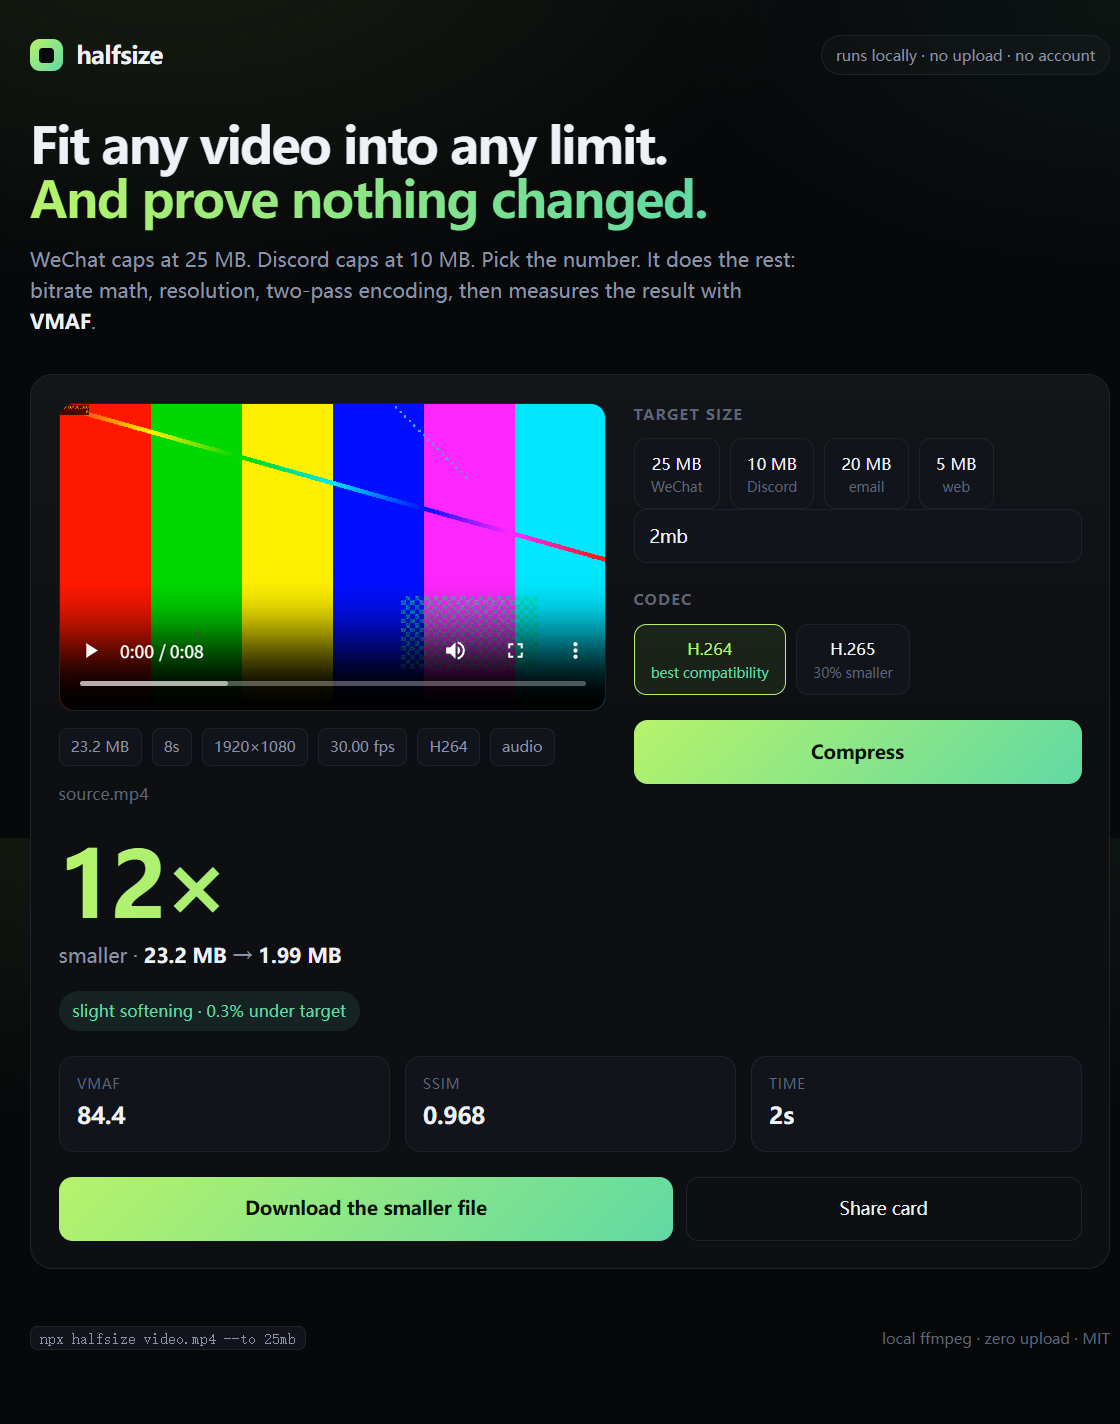
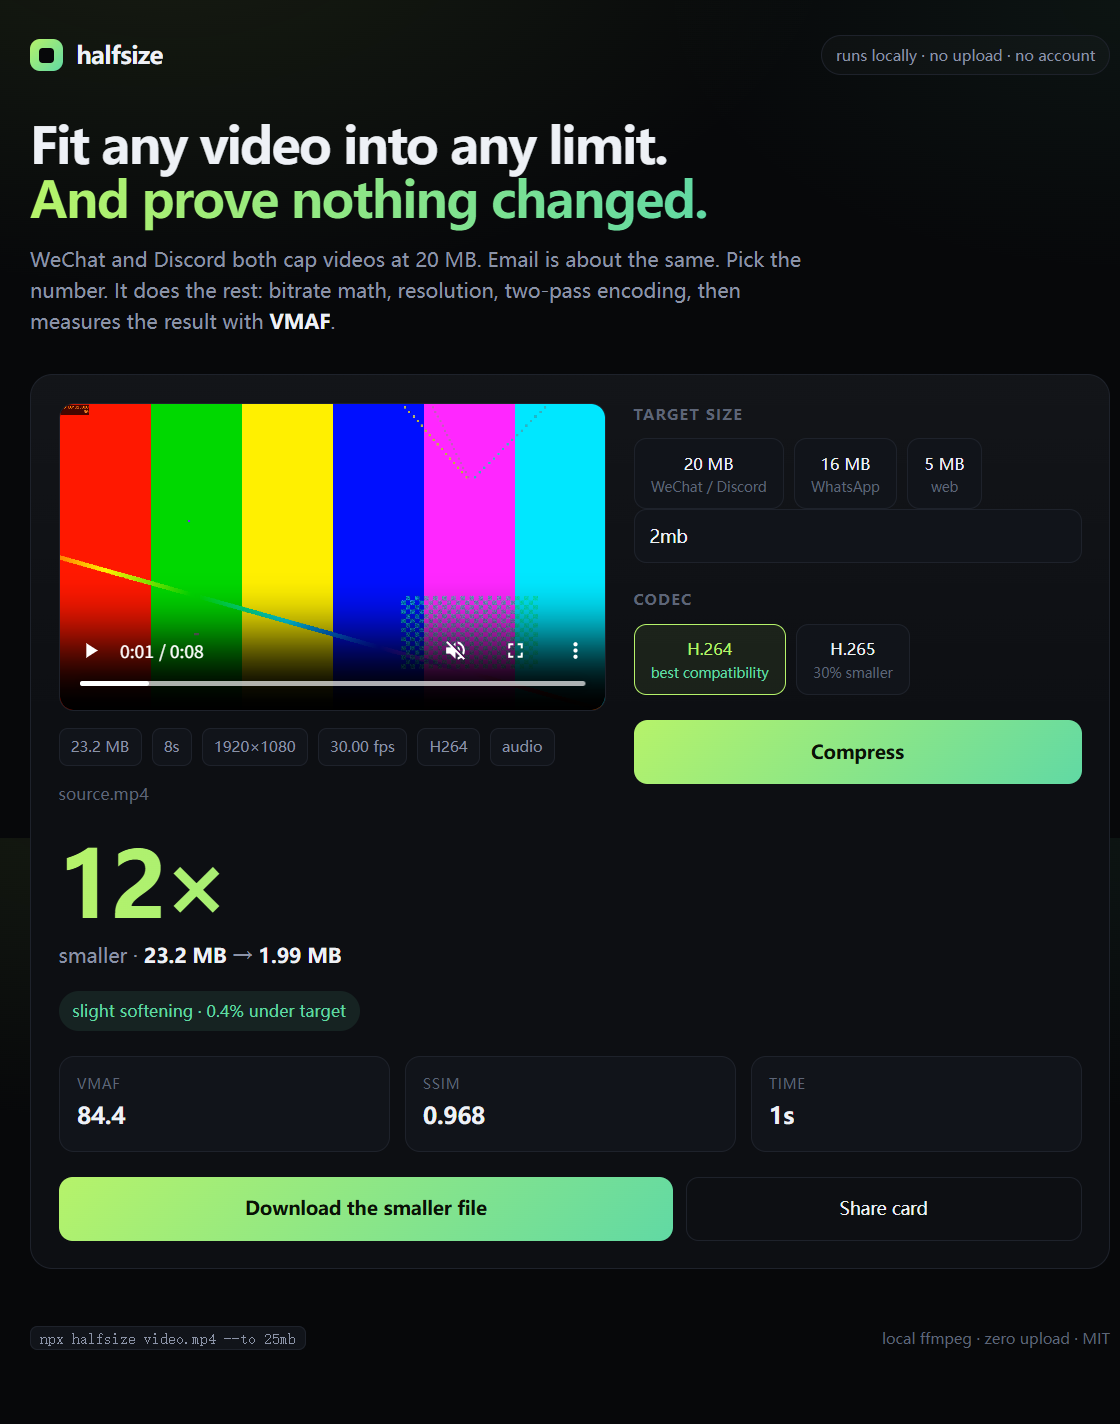
fix: match the current Discord (20 MB) and WeChat (20 MB) caps in 0.1.5

diff --git a/web/index.html b/web/index.html
@@ -150,7 +150,7 @@
   </header>
 
   <h1 data-i18n-html="title">把任何视频，塞进任何限制。<br><em>并且证明画质没变。</em></h1>
-  <p class="sub" data-i18n-html="sub">微信只让发 25 MB，Discord 只让发 10 MB。选一个数字，剩下的交给它：算码率、降分辨率、两遍编码，最后用 <b>VMAF</b> 告诉你画质掉没掉。</p>
+  <p class="sub" data-i18n-html="sub">微信和 Discord 都只让发 20 MB，邮件也差不多。选一个数字，剩下的交给它：算码率、降分辨率、两遍编码，最后用 <b>VMAF</b> 告诉你画质掉没掉。</p>
 
   <div class="card" id="card">
     <div id="drop" class="drop" role="button" tabindex="0">
@@ -172,9 +172,8 @@
         <div>
           <div class="label" data-i18n="target">目标大小</div>
           <div class="chips" id="presets">
-            <button class="chip on" data-size="25mb">25 MB<small data-i18n="wechat">微信</small></button>
-            <button class="chip" data-size="10mb">10 MB<small>Discord</small></button>
-            <button class="chip" data-size="20mb">20 MB<small data-i18n="email">邮件</small></button>
+            <button class="chip on" data-size="20mb">20 MB<small data-i18n="wechat">微信 / Discord</small></button>
+            <button class="chip" data-size="16mb">16 MB<small>WhatsApp</small></button>
             <button class="chip" data-size="5mb">5 MB<small data-i18n="web">网页</small></button>
           </div>
           <div class="row">
@@ -226,7 +225,7 @@ const I18N = {
   zh: {
     pill: "本地运行 · 不上传 · 无账号",
     title: "把任何视频，塞进任何限制。<br><em>并且证明画质没变。</em>",
-    sub: "微信只让发 25 MB，Discord 只让发 10 MB。选一个数字，剩下的交给它：算码率、降分辨率、两遍编码，最后用 <b>VMAF</b> 告诉你画质掉没掉。",
+    sub: "微信和 Discord 都只让发 20 MB，邮件也差不多。选一个数字，剩下的交给它：算码率、降分辨率、两遍编码，最后用 <b>VMAF</b> 告诉你画质掉没掉。",
     dropBig: "把视频拖进来，或点击选择",
     dropSmall: "MP4 · MOV · MKV · AVI · WebM · 不超过 8 GB",
     target: "目标大小",
@@ -242,8 +241,7 @@ const I18N = {
     verifying: "正在测画质…",
     done: "完成",
     uploading: "上传中",
-    wechat: "微信",
-    email: "邮件",
+    wechat: "微信 / Discord",
     web: "网页",
     smallerLabel: "更小",
     accuracyUnder: (p) => `比目标小 ${p}%`,
@@ -266,7 +264,7 @@ const I18N = {
   en: {
     pill: "runs locally · no upload · no account",
     title: "Fit any video into any limit.<br><em>And prove nothing changed.</em>",
-    sub: "WeChat caps at 25 MB. Discord caps at 10 MB. Pick the number. It does the rest: bitrate math, resolution, two-pass encoding, then measures the result with <b>VMAF</b>.",
+    sub: "WeChat and Discord both cap videos at 20 MB. Email is about the same. Pick the number. It does the rest: bitrate math, resolution, two-pass encoding, then measures the result with <b>VMAF</b>.",
     dropBig: "Drop a video, or click to choose",
     dropSmall: "MP4 · MOV · MKV · AVI · WebM · up to 8 GB",
     target: "Target size",
@@ -282,8 +280,7 @@ const I18N = {
     verifying: "measuring quality…",
     done: "done",
     uploading: "uploading",
-    wechat: "WeChat",
-    email: "email",
+    wechat: "WeChat / Discord",
     web: "web",
     smallerLabel: "smaller",
     accuracyUnder: (p) => `${p}% under target`,
@@ -320,7 +317,7 @@ const drop = $("drop"), fileInput = $("file"), editor = $("editor"), preview = $
 const meta = $("meta"), fname = $("fname"), go = $("go"), progress = $("progress");
 const fill = $("fill"), pct = $("pct"), speed = $("speed"), result = $("result"), error = $("error");
 
-let state = { id: null, target: "25mb", codec: "h264", data: null };
+let state = { id: null, target: "20mb", codec: "h264", data: null };
 
 function fmtBytes(n) {
   if (!n && n !== 0) return "—";

diff --git a/README.md b/README.md
@@ -26,7 +26,7 @@
 
 ---
 
-WeChat refuses anything over **25 MB**. Discord gives you **10 MB**. Email chokes around **20 MB**.
+WeChat and Discord both stop at **20 MB**. Email chokes around the same.
 So you open a video editor, guess a bitrate, export, check the size, export again, and still
 can't tell whether the picture got worse.
 
@@ -40,7 +40,7 @@ It computes the bitrate, picks the resolution that actually fits, encodes twice,
 the result with **SSIM** and **VMAF** so you know whether it still looks the same.
 
 ```
-  halfsize 0.1.4
+  halfsize 0.1.5
 
   source.mp4
   23.2 MB  8s  1920x1080  30.00 fps  h264
@@ -51,9 +51,9 @@ the result with **SSIM** and **VMAF** so you know whether it still looks the sam
   estimate   1.94 MB  (12x smaller)
   output     source.2mb.mp4
 
-  measuring quality                                        done in 2s
+  measuring quality                                        done in 1s
 
-  23.2 MB  ->  1.99 MB   12x smaller   0.3% under target
+  23.2 MB  ->  1.99 MB   12x smaller   0.4% under target
   VMAF 84.4   SSIM 0.968   slight softening
 
   -> C:\Videos\source.2mb.mp4
@@ -118,7 +118,7 @@ npm install -g halfsize
 npx halfsize --web
 ```
 
-Opens `http://127.0.0.1:4174` — drag a video in, pick 25 MB / 10 MB / 20 MB / 5 MB or type
+Opens `http://127.0.0.1:4174` — drag a video in, pick 20 MB / 16 MB / 5 MB or type
 your own limit, and watch the encode. The file goes to a temporary folder **on your own
 machine**; nothing is sent anywhere.
 
@@ -187,8 +187,9 @@ halfsize <file> [options]
 
 Sizes accept `b`, `k`/`kb`, `m`/`mb`, `g`/`gb`, with or without a space. No unit means MB.
 
-`--for` uses the current free-tier caps: `discord` 10 MB, `whatsapp` 16 MB, `wechat` 25 MB,
-`email` 20 MB, `twitter` 512 MB. Caps change, so `--to` always overrides.
+`--for` uses the current free-tier caps (checked November 2026): `discord` 20 MB,
+`whatsapp` 16 MB, `wechat` 20 MB, `email` 20 MB, `twitter` 512 MB. Caps change, so `--to`
+always overrides.
 
 Exit codes: `0` success, `1` error. `--json` returns the plan, the measured quality, and the
 target accuracy, which makes it easy to wrap in a script.
@@ -223,7 +224,7 @@ bitrate per pixel sane almost always looks better than keeping 4K and starving i
 
 **Why is the output slightly under the target, not exactly on it?**
 Container overhead and two-pass ABR both vary a little. `halfsize` aims ~3% under so it never
-overshoots a hard platform cap. In the example above it landed 0.3% under.
+overshoots a hard platform cap. In the example above it landed 0.4% under.
 
 **H.264 or H.265?**
 H.264 plays everywhere, including old Android phones and browsers. H.265 is roughly 30% smaller

diff --git a/README.zh-CN.md b/README.zh-CN.md
@@ -26,7 +26,7 @@
 
 ---
 
-微信不让发超过 **25 MB**，Discord 只给 **10 MB**，邮件大多卡在 **20 MB**。
+微信和 Discord 都只让发 **20 MB**，邮件也大多卡在 **20 MB**。
 于是你打开剪辑软件，猜一个码率，导出，看一眼大小，再导一次——最后还是不知道画质到底掉了多少。
 
 `halfsize` 把这件事变成一行命令：
@@ -39,7 +39,7 @@ npx halfsize 婚礼.mp4 --to 25mb
 画质到底还在不在。
 
 ```
-  halfsize 0.1.4
+  halfsize 0.1.5
 
   source.mp4
   23.2 MB  8s  1920x1080  30.00 fps  h264
@@ -50,9 +50,9 @@ npx halfsize 婚礼.mp4 --to 25mb
   estimate   1.94 MB  (12x smaller)
   output     source.2mb.mp4
 
-  measuring quality                                        done in 2s
+  measuring quality                                        done in 1s
 
-  23.2 MB  ->  1.99 MB   12x smaller   0.3% under target
+  23.2 MB  ->  1.99 MB   12x smaller   0.4% under target
   VMAF 84.4   SSIM 0.968   slight softening
 
   -> C:\Videos\source.2mb.mp4
@@ -115,7 +115,7 @@ npm install -g halfsize
 npx halfsize --web
 ```
 
-打开 `http://127.0.0.1:4174`，把视频拖进去，选 25 MB / 10 MB / 20 MB / 5 MB，或者自己输入一个数，
+打开 `http://127.0.0.1:4174`，把视频拖进去，选 20 MB / 16 MB / 5 MB，或者自己输入一个数，
 然后看着它压。文件只会写进**你自己电脑**的临时目录，不会发到任何地方。
 
 <p align="center">
@@ -177,8 +177,8 @@ halfsize <file> [options]
 
 大小支持 `b`、`k`/`kb`、`m`/`mb`、`g`/`gb`，中间可以有空格。不写单位按 MB 算。
 
-`--for` 用的是当前免费档上限：`discord` 10 MB、`whatsapp` 16 MB、`wechat` 25 MB、
-`email` 20 MB、`twitter` 512 MB。平台上限会变，写死不如随时用 `--to` 覆盖。
+`--for` 用的是当前免费档上限（2026 年 11 月核对）：`discord` 20 MB、`whatsapp` 16 MB、
+`wechat` 20 MB、`email` 20 MB、`twitter` 512 MB。平台上限会变，写死不如随时用 `--to` 覆盖。
 
 退出码：`0` 成功，`1` 出错。`--json` 会返回方案、画质测量和目标误差，方便包进脚本。
 
@@ -218,7 +218,7 @@ $env:FFMPEG_BINARIES_URL="https://registry.npmmirror.com/-/binary/ffmpeg-static"
 
 **为什么输出比目标小一点，而不是刚好等于？**
 容器开销和两遍 ABR 都会有波动。`halfsize` 会刻意瞄准低 3%，保证不会超过平台的硬上限。
-上面那个例子里，最终比目标低 0.3%。
+上面那个例子里，最终比目标低 0.4%。
 
 **H.264 还是 H.265？**
 H.264 到处都能播，包括老安卓机和浏览器。H.265 同画质大约小 30%，但部分剪辑软件和老硬件

diff --git a/CHANGELOG.md b/CHANGELOG.md
@@ -1,5 +1,12 @@
 # Changelog
 
+## 0.1.5
+
+- `--for discord` now targets 20 MB (Discord raised its free upload cap from 10 MB in August 2026)
+- `--for wechat` now targets 20 MB (WeChat's chat-video cap, per its help center)
+- The web app's presets and copy match the current caps
+- `npx` installs behind a restrictive network can use the npmmirror FFmpeg mirror (see Install notes)
+
 ## 0.1.4
 
 - Batch mode: `halfsize a.mp4 b.mp4 --to 10mb` compresses several files in a row
